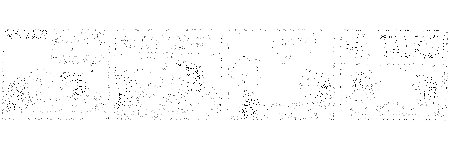
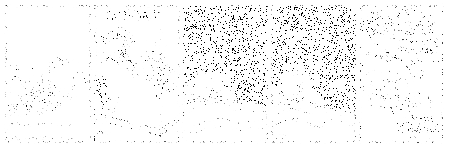
reconstruction works better now that mask is white

diff --git a/cartoons/cartoon_generator.py b/cartoons/cartoon_generator.py
@@ -125,8 +125,8 @@ def get_batch(batch_size, metadata):
         # put it in a tensor after downscaling it and padding it
         img_downscaled = downscale_local_mean(img_scaled, (2, 2))
         # normalize channel values
-        img_downscaled /= 255# TODO: test to see if this is actually helpful, maybe research it
-        batch_x[i] = np.pad(img_downscaled, ((0,0), (0, img_y-img_downscaled.shape[1])), 'maximum')
+        # TODO: was maximum, but maybe manuallly setting to 1 will make ti work better for now
+        batch_x[i] = np.pad(img_downscaled, ((0,0), (0, img_y-img_downscaled.shape[1])), 'constant', constant_values=1)
 
         img_scaled = None
         j = 0
@@ -139,8 +139,9 @@ def get_batch(batch_size, metadata):
         # put it in a tensor after downscaling it and padding it
         img_downscaled = downscale_local_mean(img_scaled, (2, 2))
         # normalize channel values
-        img_downscaled /= 255# TODO: test to see if this is actually helpful, maybe research it
         batch_y[i] = np.pad(img_downscaled, ((0,0), (0, img_y-img_downscaled.shape[1])), 'maximum')
+        batch_x[i] /= 255
+        batch_y[i] /= 255
         batch_y = convert_to_sample(batch_x)
         #batch_y[i][class_to_id[metadatum[0]]] = 1
     #return np.expand_dims(batch_x, axis=3), batch_y
@@ -232,7 +233,9 @@ class PixelCNN(Conv2D):
         #print("MASKED KERNEL:")
         #print(K.eval(self.kernel * self.mask))
         # kernel used to be W
-        output = K.conv2d(x, self.kernel * self.mask,
+        # TODO: I did this just to make everything masked white, but can we do this when
+        # precalculating the mask instead?
+        output = K.conv2d(x, self.kernel * self.mask + (-self.mask + 1),
                           strides=self.strides,
                           padding=self.padding,
                           data_format=self.data_format)
